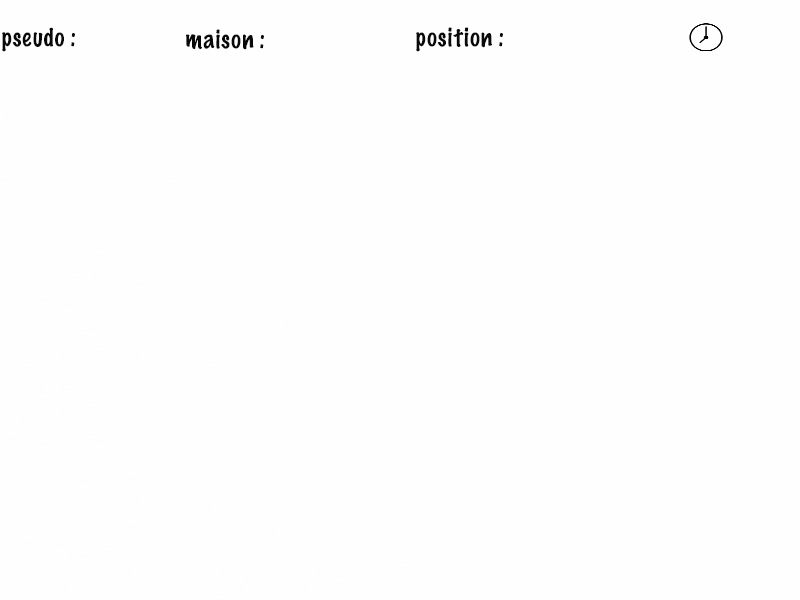
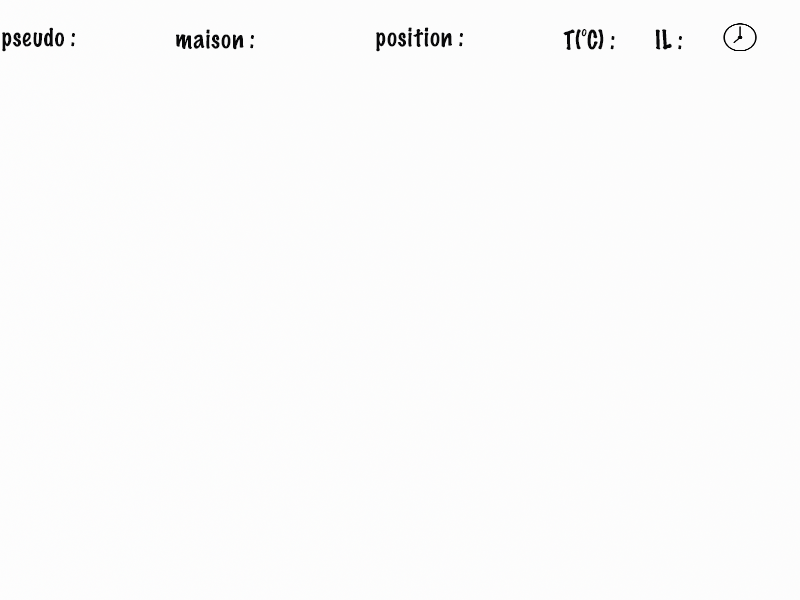
affichage IL et TC

diff --git a/ProjetIoT/src/main/Main.java b/ProjetIoT/src/main/Main.java
@@ -481,10 +481,12 @@ public class Main {
 		StdDraw.clear();
 		StdDraw.picture(0.5, 0.5,"images/couleurs/"+couleur+".png");
 		StdDraw.picture(0.5, 0.5,"images/piece.png");
-		StdDraw.text(0.13, 0.93, pseudo);
-		StdDraw.text(0.4, 0.93, maison.getNom());
-		StdDraw.text(0.7, 0.93, position.getNom());
-		StdDraw.text(0.95, 0.93, String.valueOf(heure+1)+"h");
+		StdDraw.text(0.15, 0.93, pseudo);
+		StdDraw.text(0.38, 0.93, maison.getNom());
+		StdDraw.text(0.63, 0.93, position.getNom());
+		StdDraw.text(0.79, 0.93, String.valueOf(position.getTemperature()));
+		StdDraw.text(0.87, 0.93, String.valueOf(position.getIntensiteLumineuse()));
+		StdDraw.text(0.97, 0.93, String.valueOf(heure+1)+"h");
 	}
 
 }
